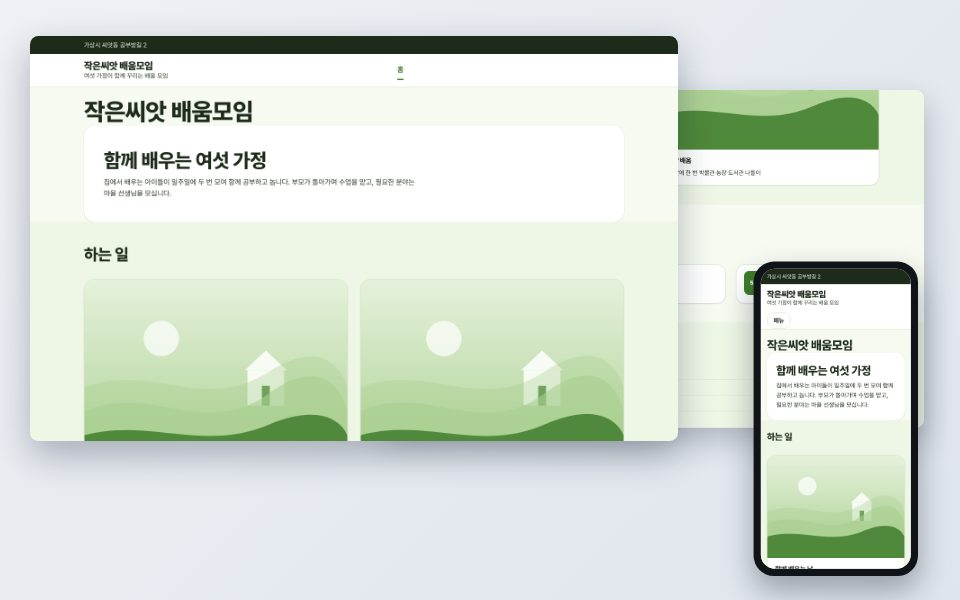
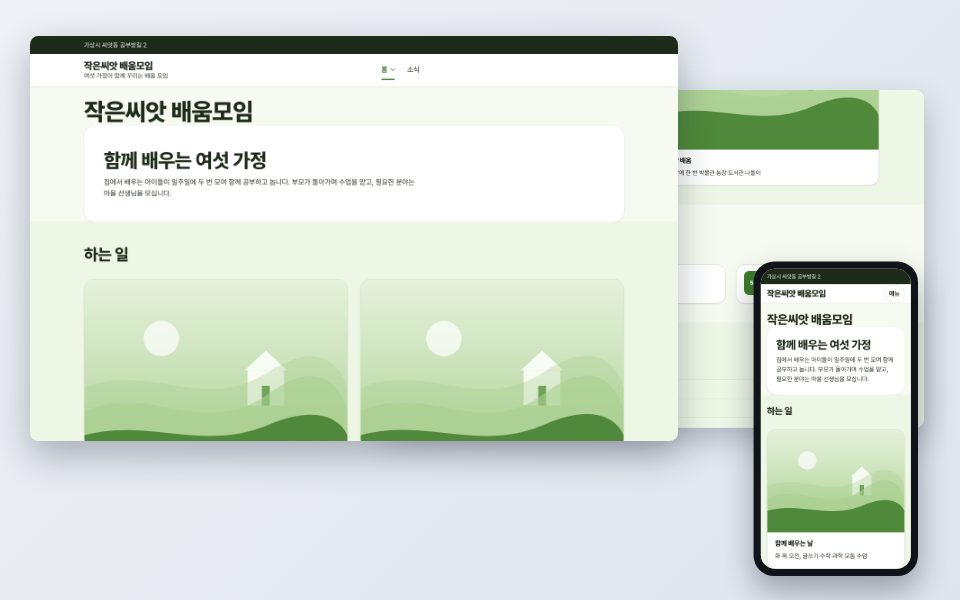
126차: 한 쪽 소개형 템플릿 하위 메뉴(v4) — 홈 구역 차례(소개·하는 일·다가오는 모임·소식·연락)가 '홈' 아래 하위 메뉴
연락하기 단추는 /#contact로 바로 간다.

Claude-Session: https://claude.ai/code/session_013RZyUom6xS67hpTPYHpecQ

Changed region(s): [[0.7812, 0.48, 0.9688, 0.96], [0.4062, 0.09, 0.4375, 0.12]]

diff --git a/src/lib/site-templates.ts b/src/lib/site-templates.ts
@@ -411,17 +411,18 @@ export const SITE_TEMPLATES: SiteTemplate[] = [
     ],
   },
   {
-    key: 'single', version: 3, name: '한 쪽 소개형', theme: 'seed', langs: ['ko'],
+    key: 'single', version: 4, name: '한 쪽 소개형', theme: 'seed', langs: ['ko'],
     summary: '막 시작한 작은 학교·모임이 한 쪽에 소개·연락·소식을 담습니다.',
     fits: ['막 시작한 작은 학교', '홈스쿨 연합·배움 모임'], firstScreen: '소개 · 하는 일 · 연락',
     mustHave: ['누구를 위한 모임인지', '연락 방법'],
     pages: [
       page('home', 0, ko('[학교·모임 이름]'), [
-        section({ template: 'text', title: ko('[우리는 누구인가요]'), body: ko('[두세 문장 소개]') }),
-        section({ template: 'cards', title: ko('하는 일'), items: [{ title: ko('[활동 1]'), body: ko('[설명]') }, { title: ko('[활동 2]'), body: ko('[설명]') }] }),
-        events('모임', '다가오는 모임'),
-        news(ko('소식'), 3, 'list'),
-        section({ template: 'cta', title: ko('함께하고 싶으신가요?'), body: ko('[연락 방법]'), button: { label: ko('연락하기'), href: '/' } }),
+        // 126차(ADR 0046): 한 쪽 안 구역 차례 = '홈' 아래 하위 메뉴
+        section({ anchor: 'about', template: 'text', title: ko('[우리는 누구인가요]'), body: ko('[두세 문장 소개]') }),
+        section({ anchor: 'activities', template: 'cards', title: ko('하는 일'), items: [{ title: ko('[활동 1]'), body: ko('[설명]') }, { title: ko('[활동 2]'), body: ko('[설명]') }] }),
+        { ...events('모임', '다가오는 모임'), anchor: 'gatherings' },
+        { ...news(ko('소식'), 3, 'list'), anchor: 'news' },
+        section({ anchor: 'contact', template: 'cta', title: ko('함께하고 싶으신가요?'), body: ko('[연락 방법]'), button: { label: ko('연락하기'), href: '/#contact' } }),
       ], { site: contact() }),
     ],
     slots: [
